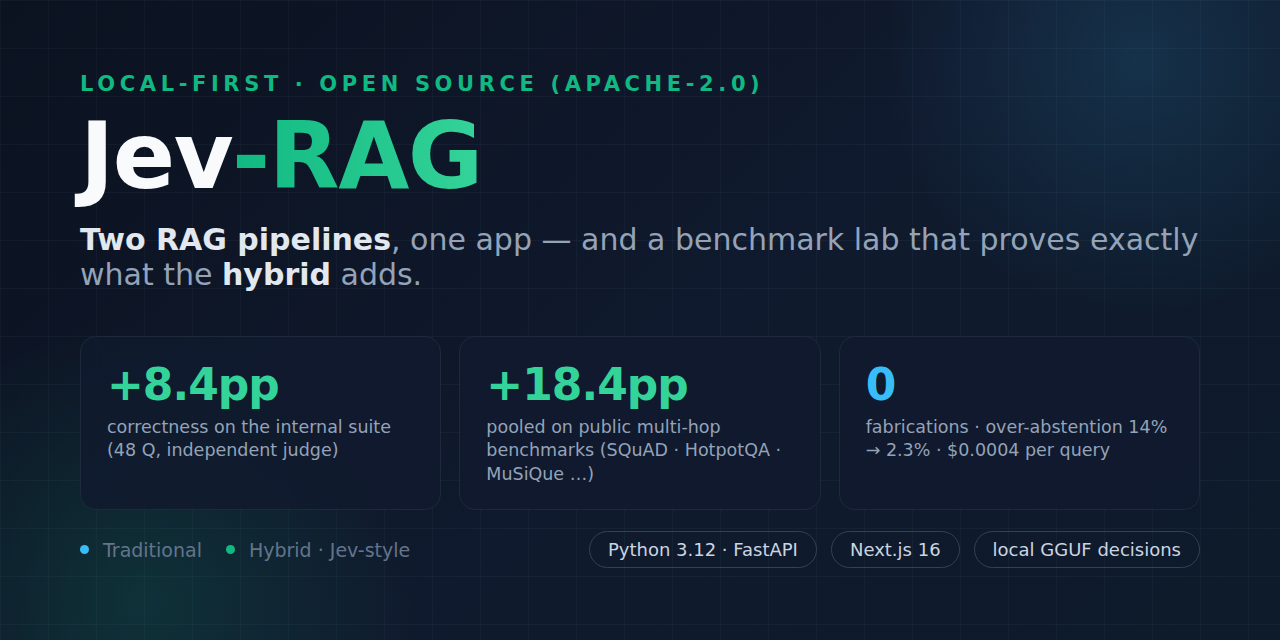
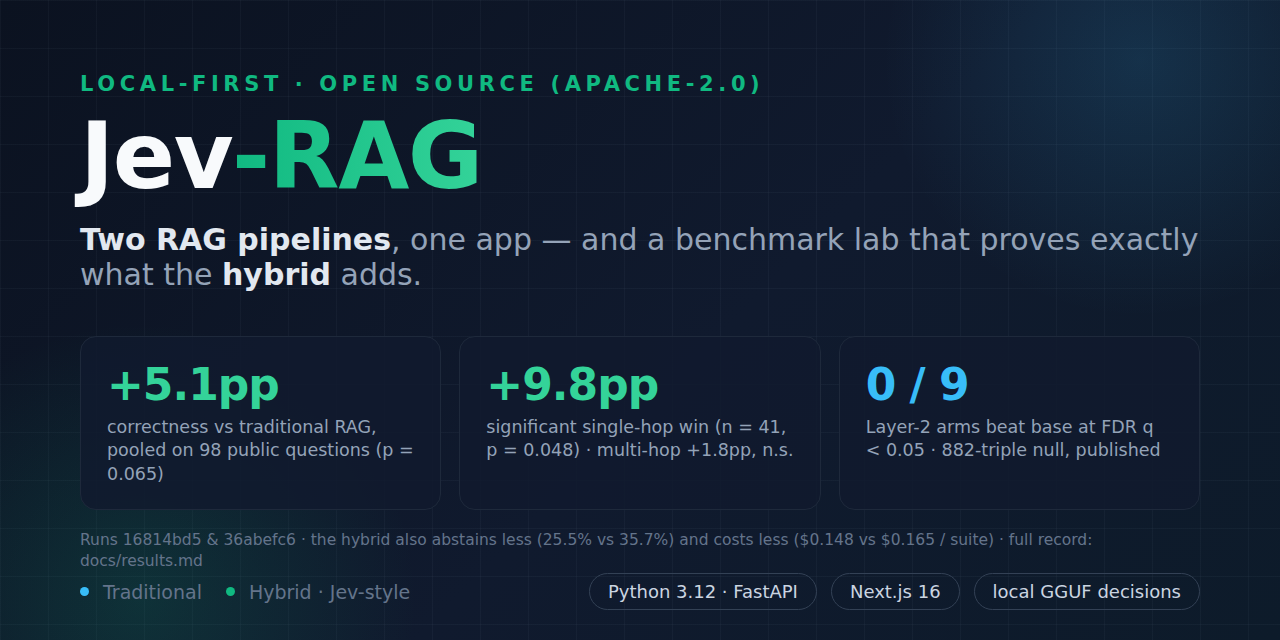
fix(scripts): put the current v3 record on the social preview card
Replace the v1/v2-era stat block (+8.4pp internal, +18.4pp "pooled"
multi-hop subset, 0 fabrications) with numbers sourced from
docs/results.md: +5.1pp pooled (p=0.065) and +9.8pp significant
single-hop (p=0.048, multi-hop +1.8pp n.s.) from run 16814bd5, and the
Layer-2 9-arm null (0/9 arms beat base at FDR q<0.05, 882 triples,
run 36abefc6) as a headline stat per the publish-nulls-alongside-wins
rule. Re-rendered via scripts/render_social_preview.py at 1280x640 1x
(427 KB, under GitHub's 1 MB cap).

diff --git a/scripts/social_preview.html b/scripts/social_preview.html
@@ -44,6 +44,8 @@
   .stat.sky .n { color: #38bdf8; }
   .stat .l { font-size: 17.5px; color: #94a3b8; margin-top: 6px; line-height: 1.35; }
 
+  .footnote { margin-top: 20px; font-size: 15.5px; color: #64748b; line-height: 1.4; }
+
   .footer { margin-top: auto; display: flex; align-items: center; gap: 14px;
     font-size: 19px; color: #64748b; }
   .chip { border: 1.5px solid #334155; border-radius: 999px; padding: 7px 18px;
@@ -61,10 +63,11 @@
       exactly what the <b>hybrid</b> adds.</div>
 
     <div class="stats">
-      <div class="stat"><div class="n">+8.4pp</div><div class="l">correctness on the internal suite (48 Q, independent judge)</div></div>
-      <div class="stat"><div class="n">+18.4pp</div><div class="l">pooled on public multi-hop benchmarks (SQuAD · HotpotQA · MuSiQue …)</div></div>
-      <div class="stat sky"><div class="n">0</div><div class="l">fabrications · over-abstention 14% → 2.3% · $0.0004 per query</div></div>
+      <div class="stat"><div class="n">+5.1pp</div><div class="l">correctness vs traditional RAG, pooled on 98 public questions (p = 0.065)</div></div>
+      <div class="stat"><div class="n">+9.8pp</div><div class="l">significant single-hop win (n = 41, p = 0.048) · multi-hop +1.8pp, n.s.</div></div>
+      <div class="stat sky"><div class="n">0 / 9</div><div class="l">Layer-2 arms beat base at FDR q &lt; 0.05 · 882-triple null, published</div></div>
     </div>
+    <div class="footnote">Runs 16814bd5 &amp; 36abefc6 · the hybrid also abstains less (25.5% vs 35.7%) and costs less ($0.148 vs $0.165 / suite) · full record: docs/results.md</div>
 
     <div class="footer">
       <span class="dot" style="background:#38bdf8"></span><span>Traditional</span>
